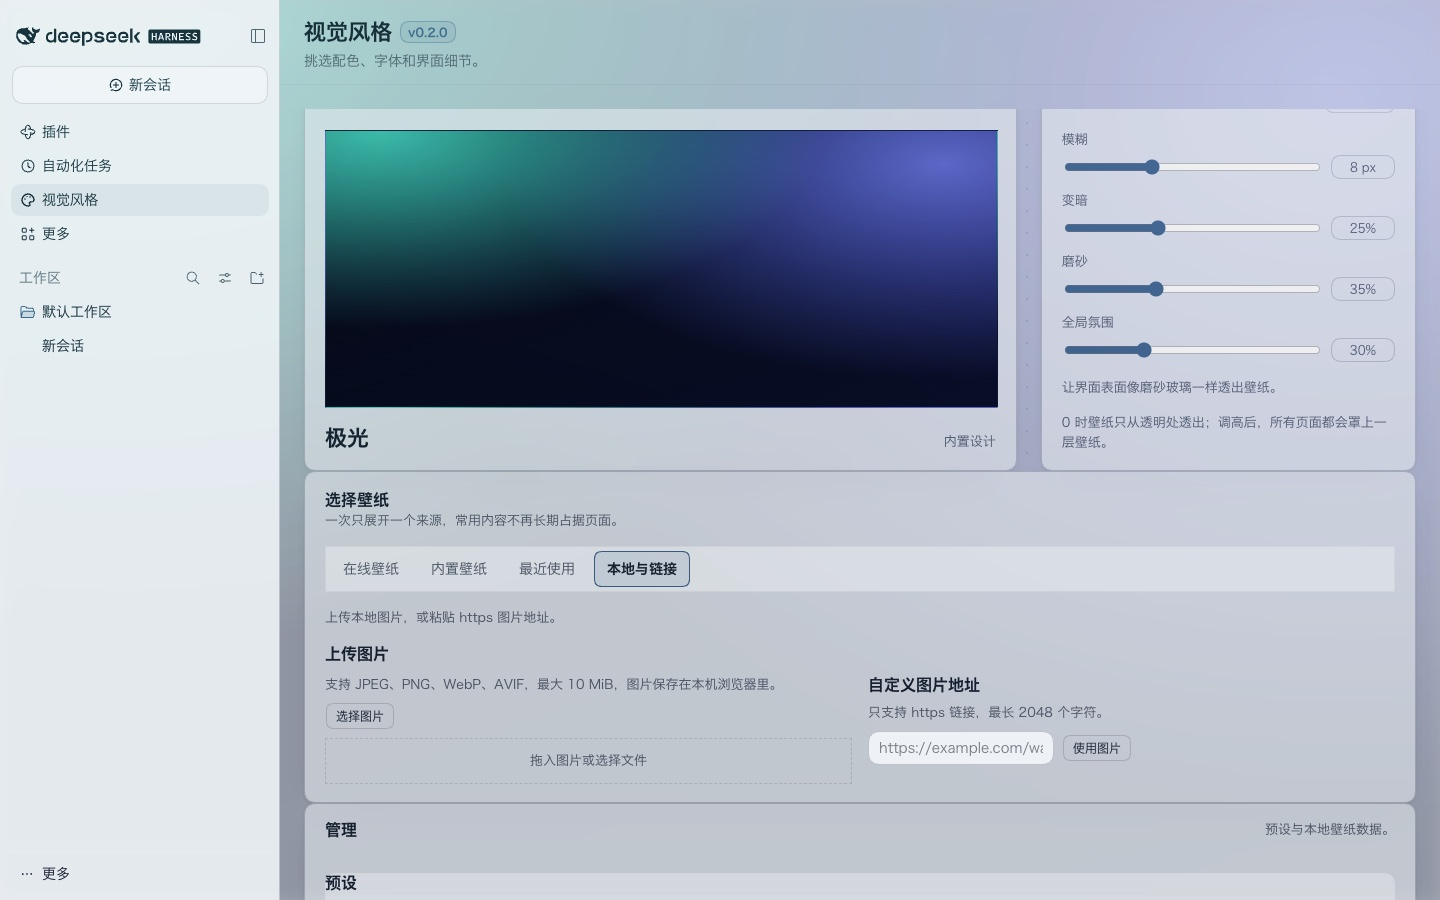
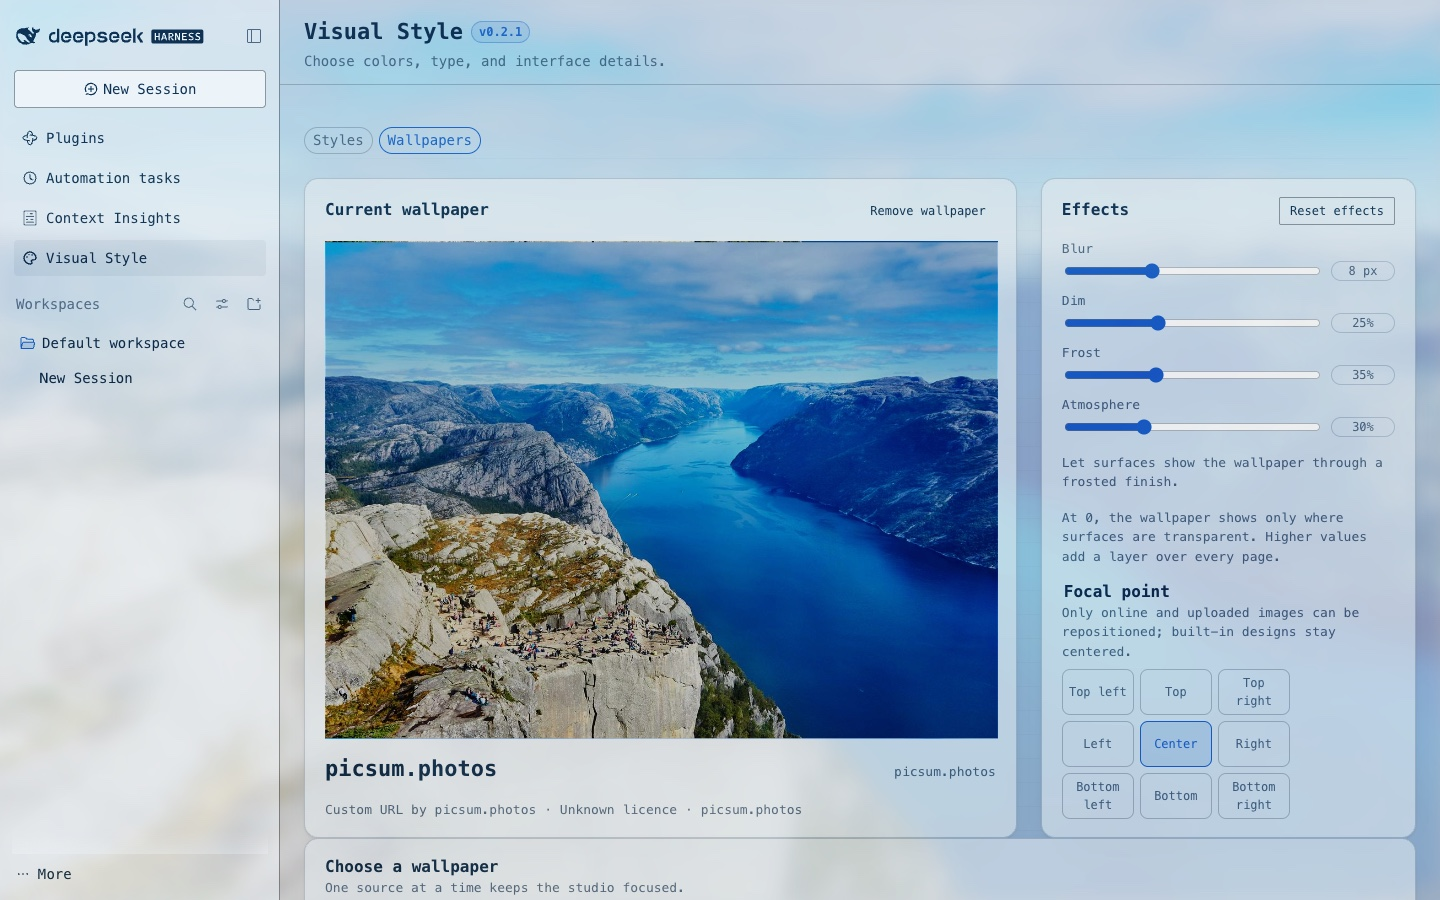
docs: refresh README screenshots for 0.2.1

diff --git a/README.md b/README.md
@@ -98,11 +98,12 @@ preview scenes.
 
 ## Wallpapers
 
-![Built-in Aurora wallpaper with blur, dim, frost and atmosphere controls](docs/assets/wallpaper-studio-en.jpg)
+![Online photo wallpaper with blur, dim, frost, atmosphere and focal controls](docs/assets/wallpaper-studio-en.jpg)
 
-The 0.2.1 wallpaper studio with the live 16:9 preview and L5a dots. Blur, dim, frost and the
-global atmosphere controls apply to the whole interface. Focal positioning is
-available for remote and uploaded wallpapers, not for built-in designs. Opening
+The 0.2.1 wallpaper studio with a real online photo and the live 16:9 preview. Blur, dim,
+frost and the global atmosphere controls apply to the whole interface. Focal
+positioning is available for remote and uploaded wallpapers, not for built-in
+designs. Opening
 a tab loads one batch of content; search, randomise, page or switch source
 explicitly. Wallpaper choices stay local.
 
